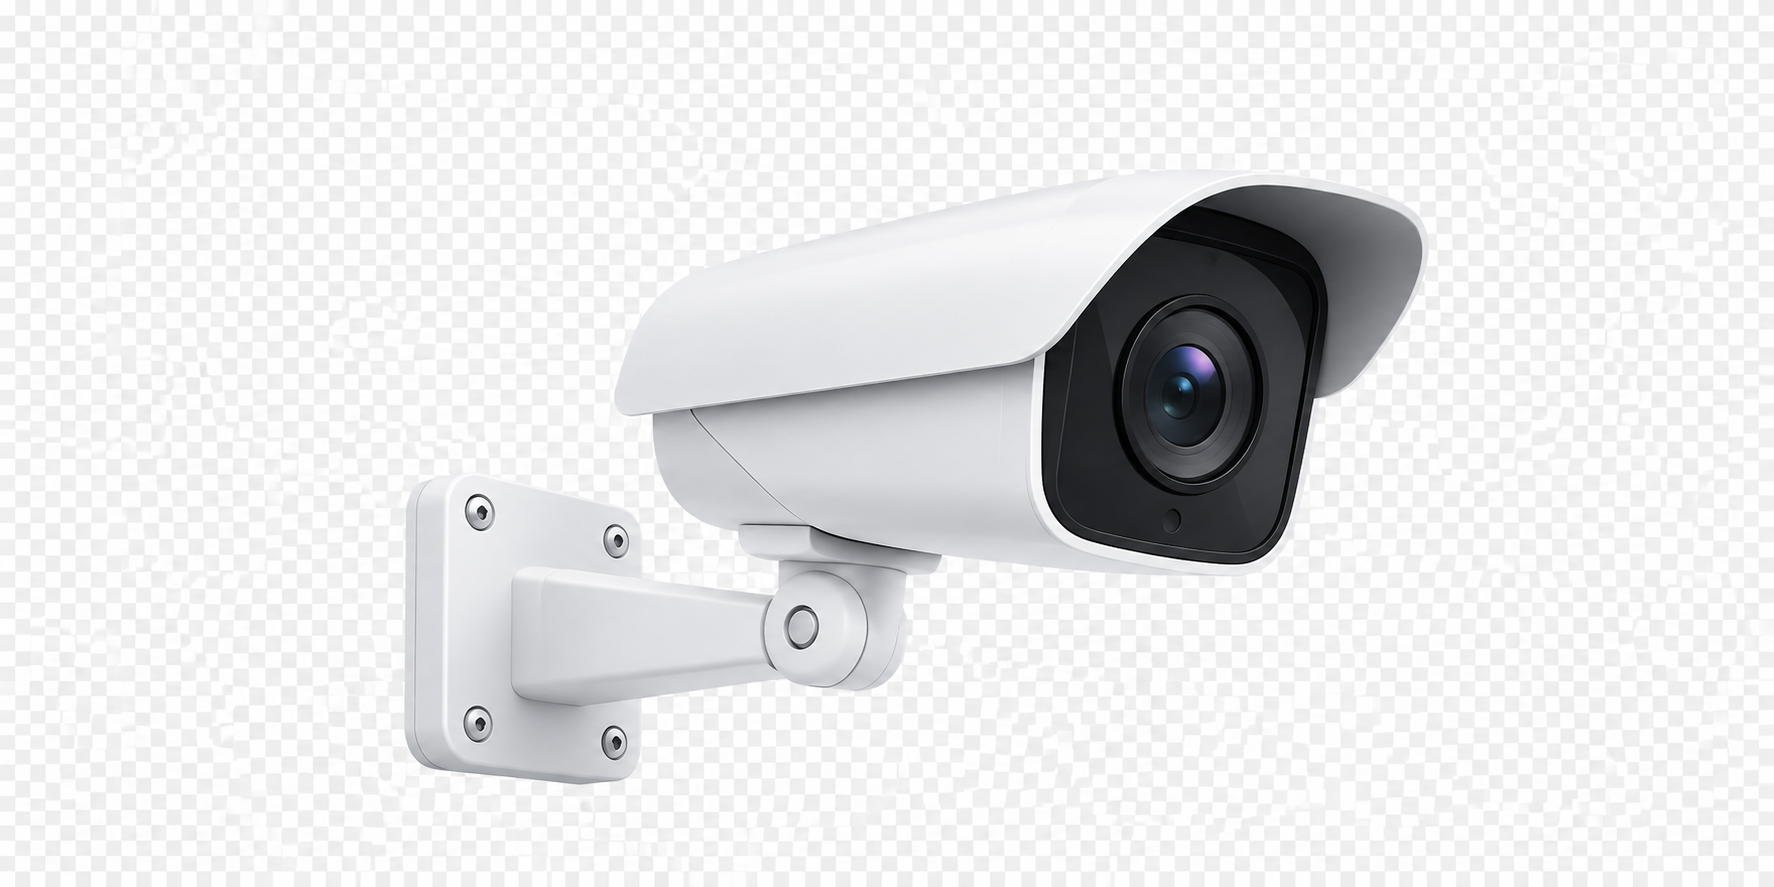
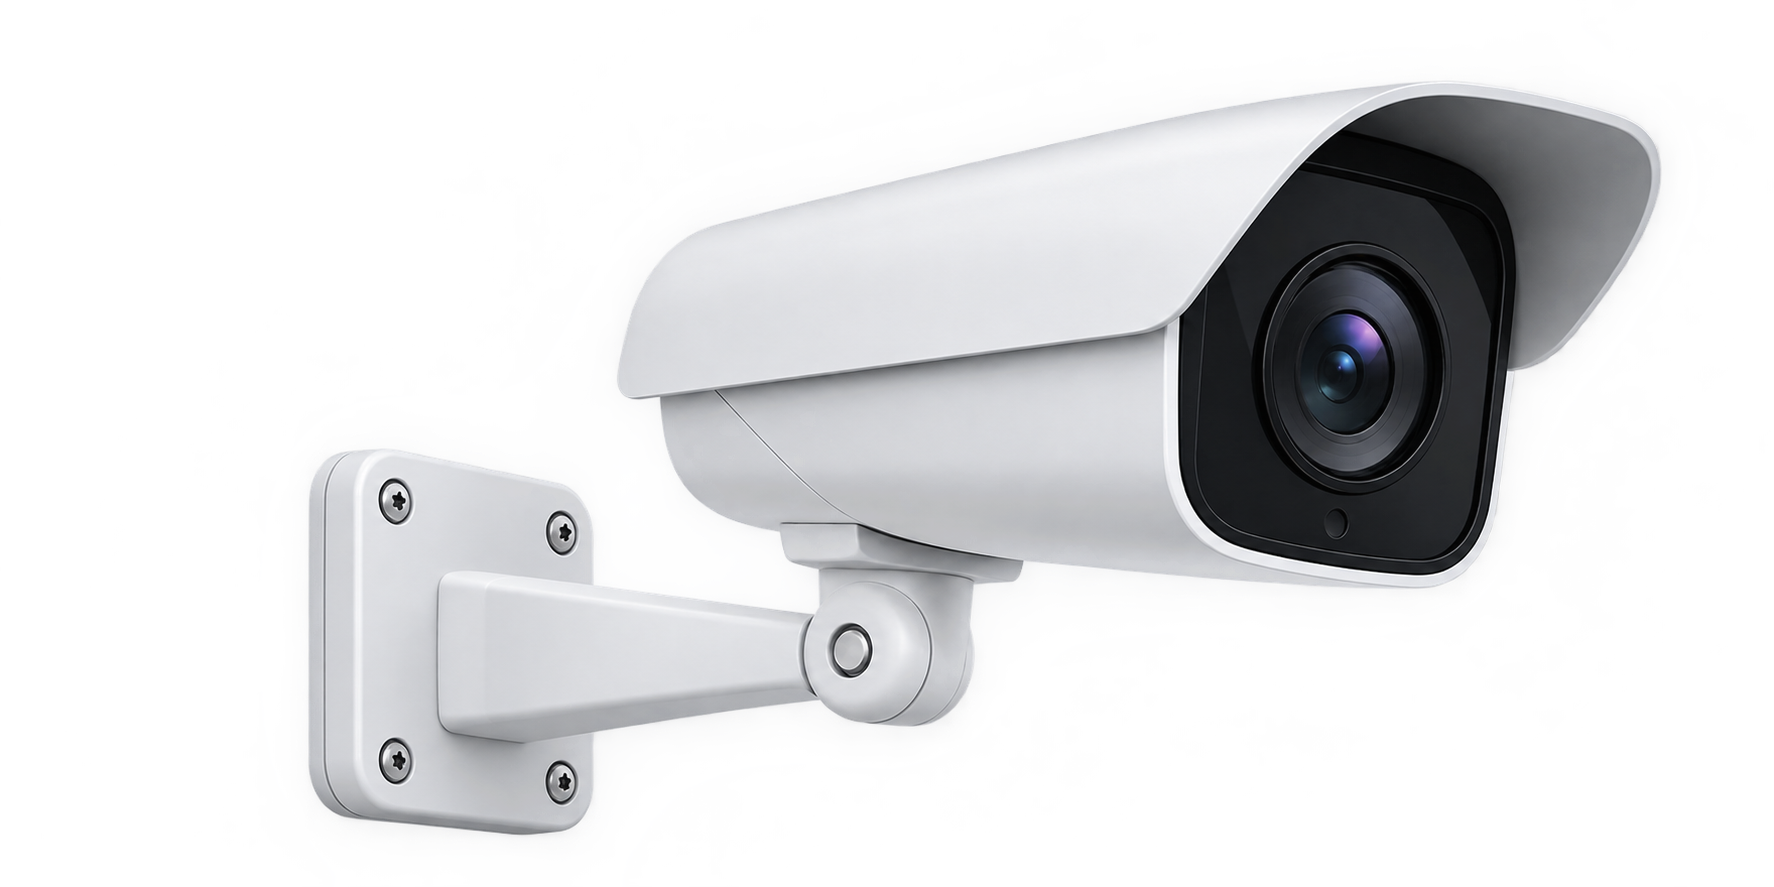
Perbesar cctv1.png 3x dan samakan ukuran cctv2/cctv3 dengan cctv1

diff --git a/landing.css b/landing.css
@@ -92,7 +92,9 @@ a { color: inherit; text-decoration: none; }
 .service-item span { color: var(--gold-light); font-size: 1.05rem; }
 .bundle-section,.service-highlight,.remote-section { display: grid; grid-template-columns: 1fr 1fr; align-items: center; gap: clamp(28px,5vw,70px); padding: 64px clamp(28px,6vw,78px); background: var(--paper); }
 .bundle-visual { position: relative; min-height: 280px; display: grid; place-items: center; overflow: hidden; background: radial-gradient(ellipse at center,var(--gold-pale) 0%,#fff 74%,var(--gold-pale) 100%); }
-.bundle-visual img { width: 220px; height: auto; max-width: 80%; filter: drop-shadow(0 8px 24px rgba(212,168,42,.35)); }
+.bundle-visual img { width: 660px; height: auto; max-width: 90%; filter: drop-shadow(0 8px 24px rgba(212,168,42,.35)); }
+.technician-visual img { width: 660px; height: auto; max-width: 90%; }
+.monitor-visual img { width: 660px; height: auto; max-width: 90%; }
 .bundle-visual::before { content: ''; position: absolute; inset: 0; background: radial-gradient(ellipse at center, rgba(212,168,42,.08) 0%, transparent 60%); pointer-events: none; }
 .bundle-orbit { position: absolute; width: 78%; height: 72%; border: 1px solid rgba(212,168,42,.4); border-radius: 50%; transform: rotate(-15deg); }
 .bundle-orbit::after { content: ""; position: absolute; inset: 18px -20px; border: 1px solid rgba(212,168,42,.2); border-radius: 50%; }
